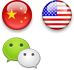
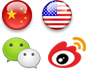
add weibo;

diff --git a/_assets/stylesheets/layout.css.scss b/_assets/stylesheets/layout.css.scss
@@ -112,7 +112,7 @@ footer {
   .right {
     float: right;
     padding: 10px 10px 0 0;
-    width: 260px;
+    width: 185px;
     line-height: 30px;
   }
   .clear {
@@ -145,6 +145,12 @@ background-position: 0 0;
   height: 32px;
   border-left: 1px solid #CCC;
   margin-left: 8px;
+}
+
+.lang-weibo {
+  background-position: -45px -37px;
+  width: 42px;
+  height: 32px;
 }
 
 .hidden {
